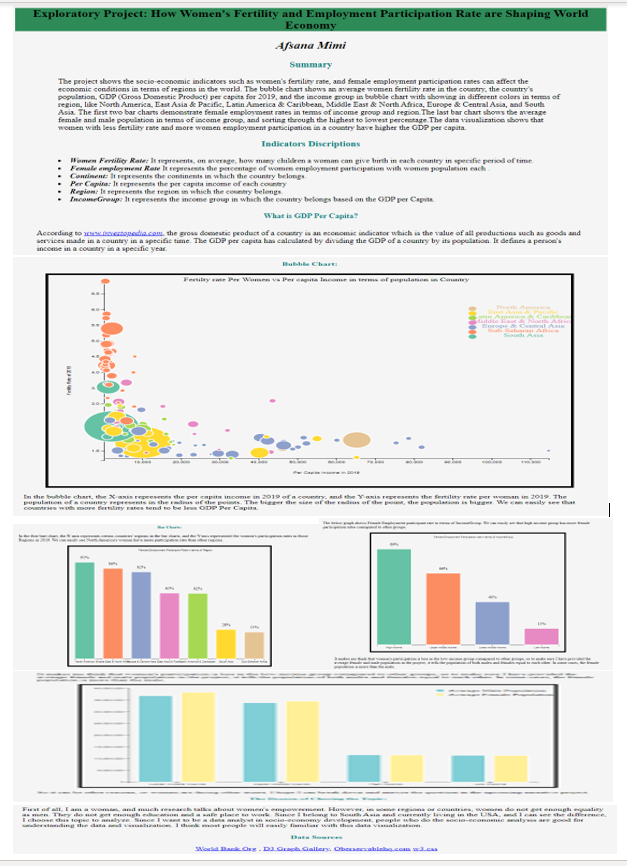
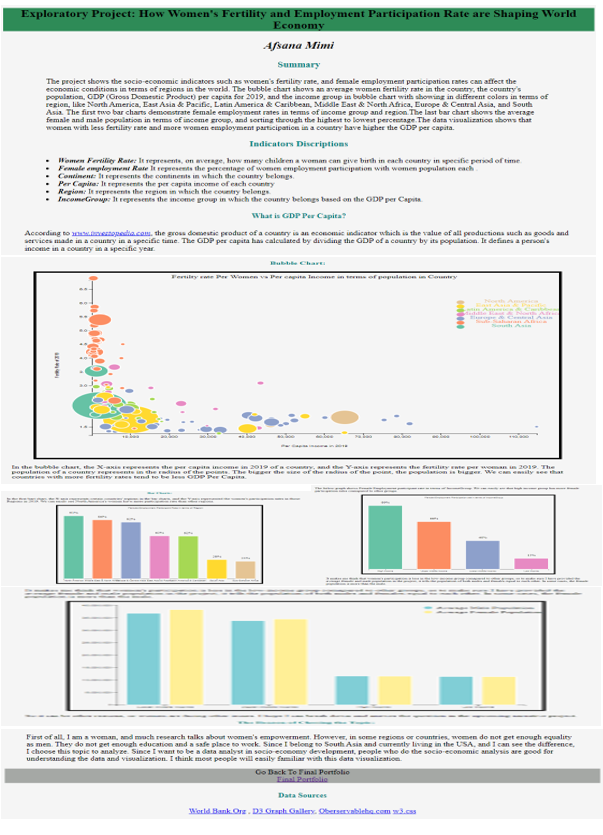
Final

diff --git a/Final_Portfolio/index.html b/Final_Portfolio/index.html
@@ -26,7 +26,7 @@
     <!-- Navbar (sit on top) -->
     <div class="viz-top">
         <div class="viz-bar viz-white padding-2 viz-card" style="letter-spacing:4px;">
-            <a href="#home" class="viz-bar-item viz-button"> Final Portfolio </a>
+            <a href="#home" class="viz-bar-item viz-button"> Final Portfolio, Interactive-Data-Vis-Sp2021 </a>
             <!-- Right-sided navbar links. Hide them on small screens -->
             <div class="viz-right viz-hide-small">
                 <a href="#final" class="viz-bar-item viz-button">Reflection</a>
@@ -58,7 +58,7 @@
                 <p>
 
                     <p>
-                <img src="./image/Fina_Image_AM.PNG" class="viz-round viz-image viz-opacity-min" alt="Final"
+                <img src="./image/Final_Image_AM.PNG" class="viz-round viz-image viz-opacity-min" alt="Final"
                     width="550" height="650">
                 </p>
                 </p>
